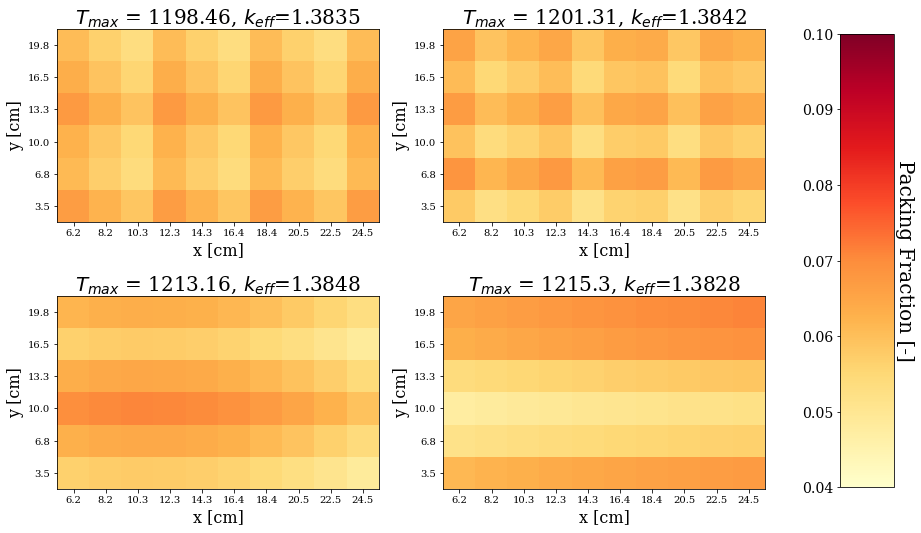
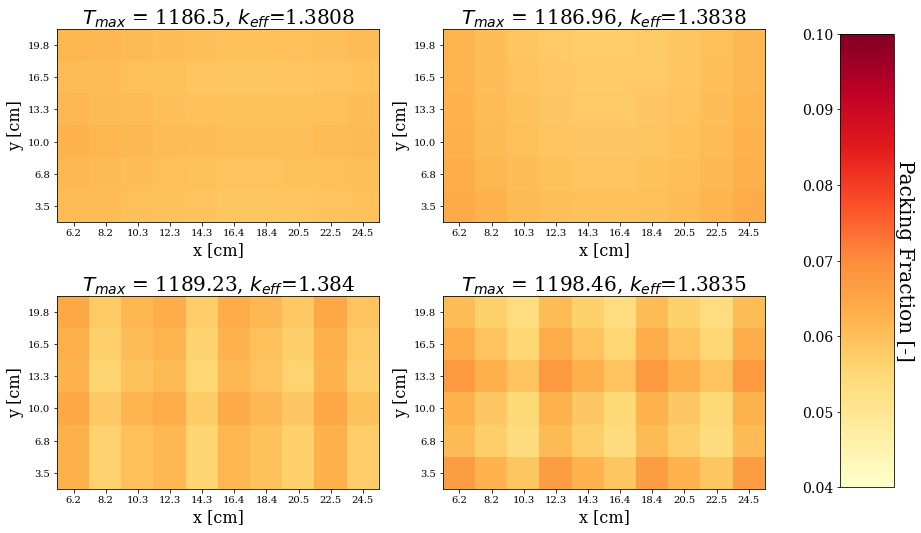
writing

diff --git a/docs/ahtr_rollo_assem.tex b/docs/ahtr_rollo_assem.tex
@@ -194,9 +194,7 @@ assembly model with the most-minimized $PF_{total}$.
 \end{figure}
 
 Figure \ref{fig:assem-obj-1-pf-evol} shows that the minimum and average $PF_{total}$ 
-converged quickly, as expected in this single-objective optimization problem.
-By the final generation, the average and minimum $PF_{total}$
-values converged to approximately 0.057. 
+converged to approximately 0.057 in the final generation. 
 In Figure \ref{fig:assem-obj-1-pf-final}, the four unique TRISO packing fraction 
 distributions in the final generation that most-minimized $PF_{total}$ have various 
 oscillating TRISO distribution patterns. 
@@ -215,6 +213,7 @@ Along the y-axis, the distribution peaks on the 2nd and 5th fuel cell rows (at 6
 16.5cm).
 The 2nd and 5th row have the largest x-axis variation of $\sim0.10$ and the middle 3rd 
 and 4th rows have the smallest x-axis variation of $\sim0.06$.
+% add with peaks / minimums? 
 Section \ref{sec:assem-discussion-pf} discusses the driving factors for the minimize 
 $PF_{total}$ objective and explains simulation a-1a's most-minimized $PF_{total}$ 
 oscillating TRISO distribution. 
@@ -384,10 +383,9 @@ assembly model with the most-minimized $T_{max}$.
 Figure \ref{fig:assem-obj-1-temp-evol} shows that the minimum and average one-third 
 assembly's $T_{max}$ converged to approximately 1200 K.
 In Figure \ref{fig:assem-obj-1-temp-final}, the one-third assembly model with the 
-most-minimized $T_{max}$ has a $T_{max}=1198.46$K and an almost constant TRISO packing 
-fraction distribution with packing fraction standard deviation of $0.004$ across the 
+most-minimized $T_{max}$ has a $T_{max}=1186.5$K and an almost constant TRISO packing 
+fraction distribution with packing fraction standard deviation of $0.0009$ across the 
 one-third assembly. 
-% TODO: update with new results
 Section \ref{sec:assem-discussion-temp} discusses and explains simulation a-1b's 
 most-minimized $T_{max}$ almost constant TRISO distribution. 
 
@@ -1184,12 +1182,15 @@ x-axis and y-axis and a packing fraction standard deviation of $0.019$ across th
 one-third assembly.
 Along the x-axis, the distribution peaks at the 2nd, 4th, and 6th fuel cell columns (at 
 8.2cm, 12.3cm, and 16.4cm). 
-These three fuel cell columns have a $\sim0.xx$ y-axis variation with peaks of 
-$PF\approx0.xx$. 
+These three fuel cell columns have a $\sim0.4$ y-axis variation with peaks of 
+$PF\approx0.1$. 
 Along the y-axis, the distribution peaks at the 1st, 3rd, and 6th fuel cell rows (at 
 3.5cm, 10.0cm, and 19.8cm).
-These three fuel cell columns have a $\sim0.xx$ x-axis variation with peaks of 
-$PF\approx0.xx$. 
+These three fuel cell columns have a $\sim0.05$ x-axis variation with peaks of 
+$PF\approx0.1$. 
+
+% reactor model 8 equally minimized ... 
+Section \ref{sec:assem-discussion-multi} discusses and explains simulation p-3a's results.
 
 \subsection{a-3b: Variation of $PF_{total}$, $\rho_{TRISO}(\vec{r})$, and Coolant 
 Channel Shape}
